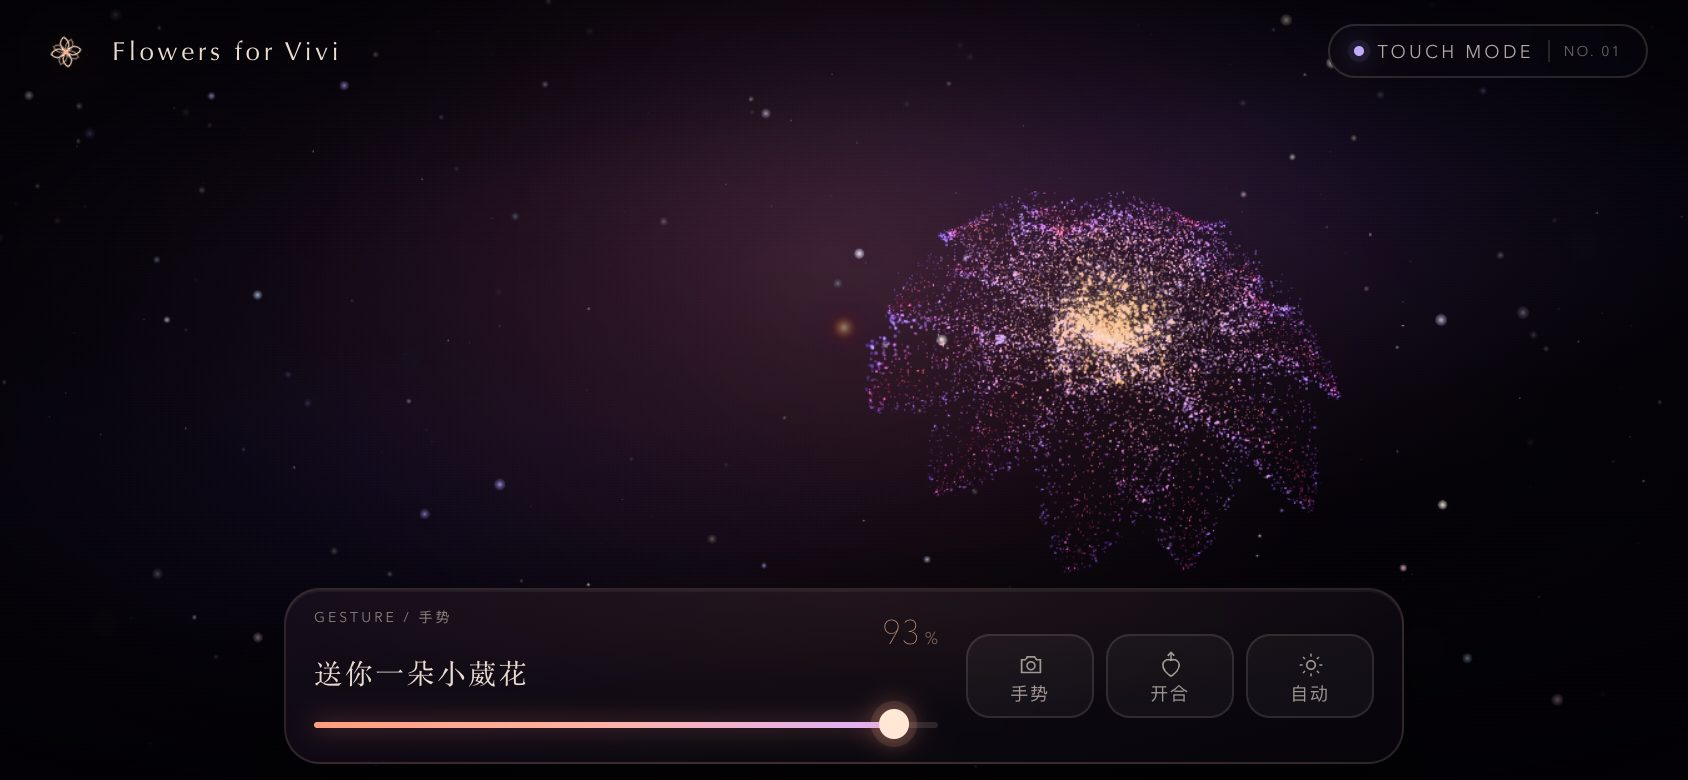
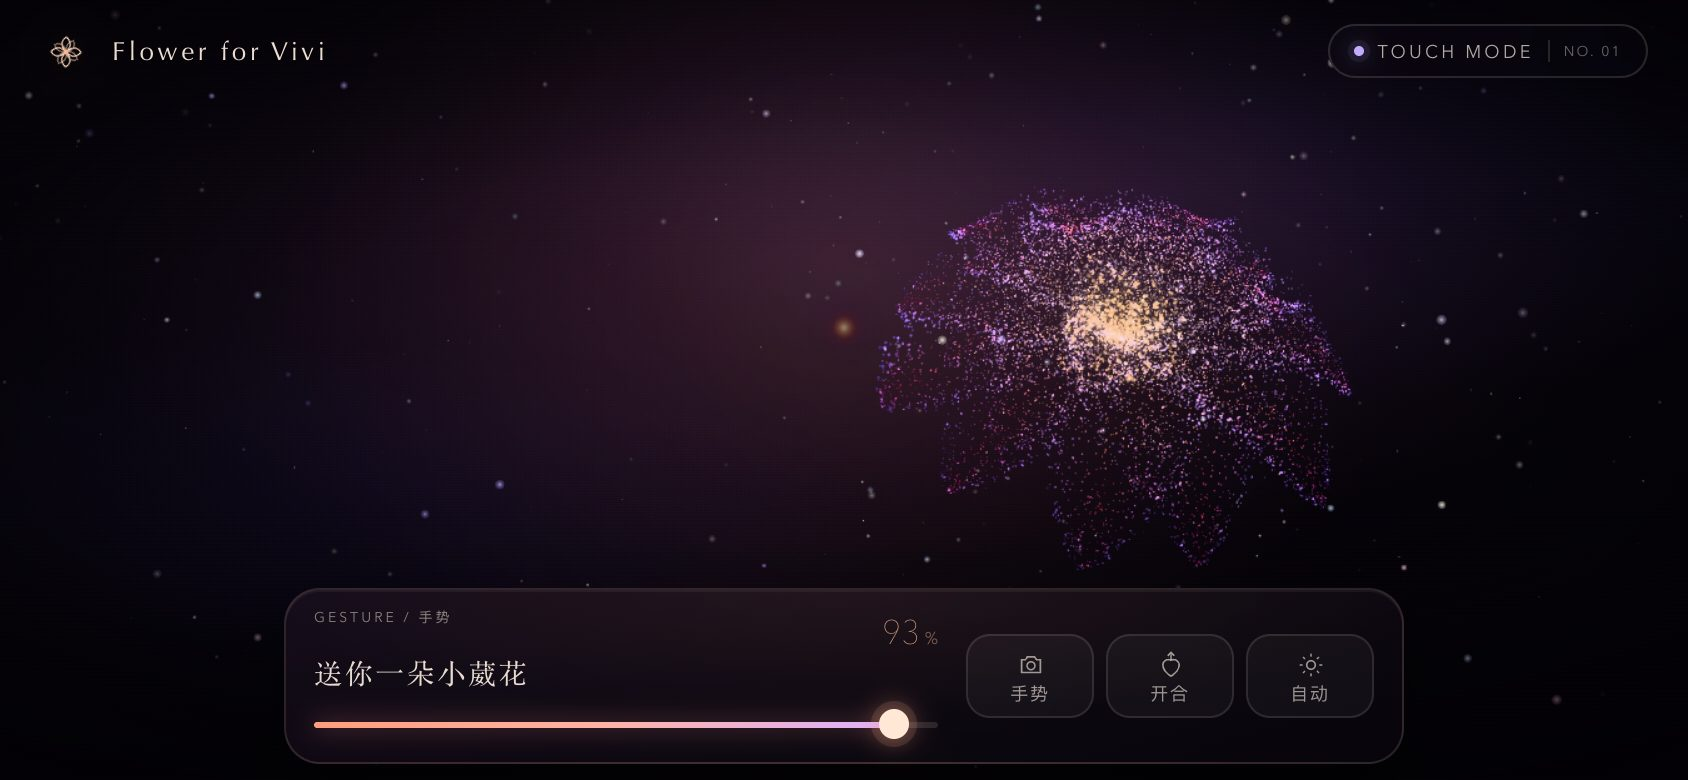
标题上移、统一字体与微光；品牌改为 Flower for Vivi；星火环绕花朵
- 首页标题上移，字距与「送你一朵小葳花」一致，叠加淡粉/淡紫微光
- 副文案改为「我只知道，花只要一直买，就永远不会枯。」
- 品牌、网页标题、manifest、文档统一为 Flower for Vivi
- 去掉大尺寸散景光斑，星星保留大小/明暗层次但光晕收小
- 新增 120 颗绕花缓转的暖色星火，随花朵位移与缩放
- 更新预览图

Changed region(s): [[0.4929, 0.2462, 0.8009, 0.7077], [0.1232, 0.0615, 0.1848, 0.0923], [0.0308, 0.0308, 0.0616, 0.0923]]

diff --git a/src/flower.js b/src/flower.js
@@ -470,51 +470,6 @@ const STAR_FRAGMENT = /* glsl */ `
   }
 `;
 
-const BOKEH_VERTEX = /* glsl */ `
-  uniform float uTime;
-  uniform float uPixelRatio;
-  attribute float aSize;
-  attribute float aPhase;
-  attribute float aBright;
-  attribute vec3 aColor;
-
-  varying vec3 vColor;
-  varying float vAlpha;
-
-  void main() {
-    vec3 pos = position;
-    pos.x += sin(uTime * 0.03 + aPhase * 31.0) * 0.6;
-    pos.y += cos(uTime * 0.025 + aPhase * 17.0) * 0.4;
-
-    vec4 mvPosition = modelViewMatrix * vec4(pos, 1.0);
-    gl_PointSize = clamp(
-      aSize * uPixelRatio * (0.96 + 0.04 * sin(uTime * 0.3 + aPhase * 9.0)),
-      2.0,
-      96.0
-    );
-    gl_Position = projectionMatrix * mvPosition;
-    vColor = aColor;
-    vAlpha = aBright * (0.7 + 0.3 * sin(uTime * 0.22 + aPhase * 7.0));
-  }
-`;
-
-const BOKEH_FRAGMENT = /* glsl */ `
-  varying vec3 vColor;
-  varying float vAlpha;
-
-  void main() {
-    vec2 centered = gl_PointCoord - vec2(0.5);
-    float d = length(centered) * 2.0;
-    if (d > 1.0) discard;
-
-    float disc = smoothstep(1.0, 0.55, d);
-    float rim = smoothstep(0.9, 1.0, d) * 0.22;
-    float alpha = vAlpha * (disc * 0.55 + rim);
-
-    gl_FragColor = vec4(vColor, alpha);
-  }
-`;
-
 function makeCanvasTexture(draw, size = 256) {
   const canvas = document.createElement("canvas");
   canvas.width = size;
@@ -596,7 +551,7 @@ function createStarfield() {
     colors[i * 3 + 2] = color.b;
 
     sizes[i] =
-      (0.6 + Math.pow(rng(), 2.4) * 5.6) * (1.12 - depth * 0.45);
+      (0.55 + Math.pow(rng(), 2.4) * 4.7) * (1.12 - depth * 0.45);
     brights[i] =
       (0.26 + Math.pow(rng(), 1.15) * 0.74) * (1.05 - depth * 0.28);
     twinkles[i] = 0.15 + rng() * 0.95;
@@ -713,7 +668,7 @@ export class BloomScene {
     this.scene.add(this.starfield);
 
     this._buildSkyStars();
-    this._buildBokeh();
+    this._buildOrbitStars();
 
     const geometry = createPetalGeometry(this.quality);
     this.petalMaterial = new THREE.ShaderMaterial({
@@ -821,14 +776,13 @@ export class BloomScene {
     if (this.skyStars) {
       this.skyStars.material.uniforms.uPixelRatio.value = this._dpr;
     }
-    if (this.bokeh) {
-      this.bokeh.material.uniforms.uPixelRatio.value = this._dpr;
+    if (this.orbitStars) {
+      this.orbitStars.material.uniforms.uPixelRatio.value = this._dpr;
     }
     this.pointerOrb.visible = false;
     this._pointerReady = false;
     this._focusDirty = true;
     this._repositionSkyStars();
-    this._repositionBokeh();
   }
 
   setFocus(x, y = 0.5) {
@@ -933,7 +887,7 @@ export class BloomScene {
       colors[i * 3] = color.r;
       colors[i * 3 + 1] = color.g;
       colors[i * 3 + 2] = color.b;
-      sizes[i] = (0.65 + Math.pow(rng(), 2.1) * 5.2) * (0.9 + (ndcY + 1) * 0.08);
+      sizes[i] = (0.6 + Math.pow(rng(), 2.1) * 4.3) * (0.9 + (ndcY + 1) * 0.08);
       brights[i] = 0.32 + Math.pow(rng(), 1.1) * 0.68;
       twinkles[i] = 0.15 + rng() * 0.9;
       phases[i] = rng();
@@ -982,46 +936,43 @@ export class BloomScene {
     positions.needsUpdate = true;
   }
 
-  _buildBokeh() {
-    const rng = mulberry32(0x7b0e11);
-    const count = 26;
+  _buildOrbitStars() {
+    const rng = mulberry32(0x2a61f0);
+    const count = 120;
     const positions = new Float32Array(count * 3);
     const colors = new Float32Array(count * 3);
     const sizes = new Float32Array(count);
     const phases = new Float32Array(count);
     const brights = new Float32Array(count);
+    const twinkles = new Float32Array(count);
     const palette = [
-      new THREE.Color("#b9a3ff"),
-      new THREE.Color("#8fb7ff"),
-      new THREE.Color("#ffd6e7"),
-      new THREE.Color("#fff1db"),
+      new THREE.Color("#fff4dc"),
+      new THREE.Color("#ffe1c6"),
+      new THREE.Color("#ffd6ea"),
+      new THREE.Color("#e6dcff"),
     ];
     const color = new THREE.Color();
-    const plane = new THREE.Plane(new THREE.Vector3(0, 0, 1), 20);
-    const hit = new THREE.Vector3();
-    const ndc = new THREE.Vector2();
-    this._bokehNdc = [];
-    this.camera.updateMatrixWorld(true);
 
+    // A loose, flattened torus of fireflies around the bloom. It is parented
+    // to the flower so it follows the focus, tilt and scale.
     for (let i = 0; i < count; i += 1) {
-      const ndcX = -0.92 + rng() * 1.84;
-      const ndcY = -0.92 + rng() * 1.84;
-      this._bokehNdc.push(new THREE.Vector2(ndcX, ndcY));
-      ndc.set(ndcX, ndcY);
-      this._raycaster.setFromCamera(ndc, this.camera);
-      if (!this._raycaster.ray.intersectPlane(plane, hit)) {
-        hit.set(0, 0, -20);
-      }
-      positions[i * 3] = hit.x;
-      positions[i * 3 + 1] = hit.y;
-      positions[i * 3 + 2] = hit.z;
+      const angle = rng() * Math.PI * 2;
+      const radius = 3.15 + Math.pow(rng(), 0.9) * 1.45;
+      const vertical = rng() * 2 - 1;
+      const ringRadius = Math.sqrt(Math.max(0, 1 - vertical * vertical)) * radius;
+      positions[i * 3] = Math.cos(angle) * ringRadius + (rng() - 0.5) * 0.4;
+      positions[i * 3 + 1] = vertical * radius + 0.1;
+      positions[i * 3 + 2] = Math.sin(angle) * ringRadius + (rng() - 0.5) * 0.4;
 
-      color.copy(palette[Math.floor(rng() * palette.length)]);
+      color
+        .copy(palette[Math.floor(rng() * palette.length)])
+        .multiplyScalar(0.9 + rng() * 0.5);
       colors[i * 3] = color.r;
       colors[i * 3 + 1] = color.g;
       colors[i * 3 + 2] = color.b;
-      sizes[i] = 6 + Math.pow(rng(), 1.6) * 26;
-      brights[i] = 0.06 + rng() * 0.1;
+      sizes[i] = 1.0 + Math.pow(rng(), 1.7) * 3.6;
+      brights[i] = 0.56 + Math.pow(rng(), 1.05) * 0.44;
+      twinkles[i] = 0.2 + rng() * 0.85;
       phases[i] = rng();
     }
 
@@ -1031,14 +982,15 @@ export class BloomScene {
     geometry.setAttribute("aSize", new THREE.BufferAttribute(sizes, 1));
     geometry.setAttribute("aPhase", new THREE.BufferAttribute(phases, 1));
     geometry.setAttribute("aBright", new THREE.BufferAttribute(brights, 1));
+    geometry.setAttribute("aTwinkle", new THREE.BufferAttribute(twinkles, 1));
 
     const material = new THREE.ShaderMaterial({
       uniforms: {
         uTime: { value: 0 },
         uPixelRatio: { value: 1 },
       },
-      vertexShader: BOKEH_VERTEX,
-      fragmentShader: BOKEH_FRAGMENT,
+      vertexShader: STAR_VERTEX,
+      fragmentShader: STAR_FRAGMENT,
       transparent: true,
       depthWrite: false,
       depthTest: true,
@@ -1047,24 +999,14 @@ export class BloomScene {
 
     const points = new THREE.Points(geometry, material);
     points.frustumCulled = false;
-    points.renderOrder = -4;
-    this.scene.add(points);
-    this.bokeh = points;
-  }
+    points.renderOrder = 3;
+    points.position.y = 0.55;
 
-  _repositionBokeh() {
-    if (!this.bokeh || !this._bokehNdc) return;
-    this.camera.updateMatrixWorld(true);
-    const positions = this.bokeh.geometry.attributes.position;
-    const plane = new THREE.Plane(new THREE.Vector3(0, 0, 1), 20);
-    const hit = new THREE.Vector3();
-    for (let i = 0; i < this._bokehNdc.length; i += 1) {
-      this._raycaster.setFromCamera(this._bokehNdc[i], this.camera);
-      if (this._raycaster.ray.intersectPlane(plane, hit)) {
-        positions.setXYZ(i, hit.x, hit.y, hit.z);
-      }
-    }
-    positions.needsUpdate = true;
+    const group = new THREE.Group();
+    group.add(points);
+    this.root.add(group);
+    this.orbitGroup = group;
+    this.orbitStars = points;
   }
 
   update(dt, input) {
@@ -1108,8 +1050,11 @@ export class BloomScene {
     if (this.skyStars) {
       this.skyStars.material.uniforms.uTime.value = this._time;
     }
-    if (this.bokeh) {
-      this.bokeh.material.uniforms.uTime.value = this._time;
+    if (this.orbitStars) {
+      this.orbitStars.material.uniforms.uTime.value = this._time;
+      this.orbitGroup.rotation.y += safeDt * 0.1;
+      this.orbitGroup.rotation.x = Math.sin(this._time * 0.09) * 0.06;
+      this.orbitGroup.rotation.z = Math.cos(this._time * 0.06) * 0.04;
     }
     this.bloomPass.strength = 0.2 + bloom * 0.06 + this.burst * 0.28;
     this.bloomPass.radius = 0.28 + bloom * 0.06;
@@ -1234,9 +1179,10 @@ export class BloomScene {
       this.skyStars.geometry.dispose();
       this.skyStars.material.dispose();
     }
-    if (this.bokeh) {
-      this.bokeh.geometry.dispose();
-      this.bokeh.material.dispose();
+    if (this.orbitStars) {
+      this.root.remove(this.orbitGroup);
+      this.orbitStars.geometry.dispose();
+      this.orbitStars.material.dispose();
     }
     this.composer.dispose();
     this.renderer.dispose();

diff --git a/index.html b/index.html
@@ -11,12 +11,12 @@
     <meta name="color-scheme" content="dark" />
     <meta
       name="description"
-      content="Flowers for Vivi —— 一束会开合的光。拖动开合，或开启摄像头，握拳为苞、张掌绽放。"
+      content="Flower for Vivi —— 一束会开合的光。拖动开合，或开启摄像头，握拳为苞、张掌绽放。"
     />
     <meta name="apple-mobile-web-app-capable" content="yes" />
     <meta name="mobile-web-app-capable" content="yes" />
     <meta name="apple-mobile-web-app-status-bar-style" content="black-translucent" />
-    <meta name="apple-mobile-web-app-title" content="Flowers for Vivi" />
+    <meta name="apple-mobile-web-app-title" content="Flower for Vivi" />
     <meta name="format-detection" content="telephone=no" />
     <link rel="manifest" href="./manifest.webmanifest" />
     <link rel="apple-touch-icon" href="./assets/icon-180.png" />
@@ -33,7 +33,7 @@
         }
       }
     </script>
-    <title>Flowers for Vivi · Bloom at Your Fingertips</title>
+    <title>Flower for Vivi · Bloom at Your Fingertips</title>
   </head>
   <body>
     <div id="app" data-mode="idle" data-gesture="idle">
@@ -64,7 +64,7 @@
             <circle cx="24" cy="24" r="2.1" fill="#ffb58d" />
           </svg>
           <div class="brand__type">
-            <span class="brand__name">Flowers for Vivi</span>
+            <span class="brand__name">Flower for Vivi</span>
             <span class="brand__sub">BLOOM AT YOUR FINGERTIPS</span>
           </div>
         </div>
@@ -85,7 +85,7 @@
           <em>永远是多远？</em>
         </h1>
         <p class="intro__lede">
-          花只要一直买，就永远不会枯。
+          我只知道，花只要一直买，就永远不会枯。
         </p>
 
         <ul class="intro__steps" aria-label="体验方式">
@@ -195,7 +195,7 @@
     </div>
 
     <noscript>
-      <div class="noscript">请启用 JavaScript 以体验「Flowers for Vivi」。</div>
+      <div class="noscript">请启用 JavaScript 以体验「Flower for Vivi」。</div>
     </noscript>
 
     <script type="module" src="./src/main.js"></script>

diff --git a/src/styles.css b/src/styles.css
@@ -1,5 +1,5 @@
 /* ------------------------------------------------------------------ *
- * Flowers for Vivi · Bloom at Your Fingertips
+ * Flower for Vivi · Bloom at Your Fingertips
  * Editorial nocturne / warm bioluminescence — mobile-first edition
  * ------------------------------------------------------------------ */
 
@@ -418,7 +418,7 @@ body.has-camera #camera {
   font-size: clamp(2.5rem, 11vw, 3.1rem);
   font-weight: 400;
   line-height: 1.16;
-  letter-spacing: 0.01em;
+  letter-spacing: 0.1em;
   background: linear-gradient(
     115deg,
     #fff8ff 0%,
@@ -436,8 +436,9 @@ body.has-camera #camera {
   color: transparent;
   filter:
     drop-shadow(0 3px 18px rgba(4, 2, 8, 0.72))
-    drop-shadow(0 0 34px rgba(255, 142, 172, 0.18))
-    drop-shadow(0 0 60px rgba(168, 160, 255, 0.16));
+    drop-shadow(0 0 12px rgba(255, 240, 246, 0.16))
+    drop-shadow(0 0 26px rgba(255, 178, 208, 0.3))
+    drop-shadow(0 0 62px rgba(170, 150, 255, 0.26));
   animation: dreamy-title 18s ease-in-out infinite alternate;
 }
 
@@ -459,7 +460,7 @@ body.has-camera #camera {
 }
 
 .intro__lede {
-  margin: 18px 0 40px;
+  margin: 18px 0 52px;
   font-family: var(--serif);
   font-size: 15px;
   line-height: 1.85;
@@ -1113,6 +1114,13 @@ body.is-searching .focus-hint {
 
 /* ------------------------- narrow phones (320px) ------------------------ */
 
+@media (max-width: 350px) {
+  .intro__lede {
+    font-size: 12px;
+    letter-spacing: 0.04em;
+  }
+}
+
 @media (max-width: 360px) {
   .topbar {
     gap: 8px;
@@ -1163,7 +1171,7 @@ body.is-searching .focus-hint {
   }
 
   .intro__lede {
-    margin: 13px 0 30px;
+    margin: 13px 0 42px;
     font-size: 13.5px;
     line-height: 1.8;
   }
@@ -1206,7 +1214,7 @@ body.is-searching .focus-hint {
   }
 
   .intro__lede {
-    margin: 12px 0 24px;
+    margin: 12px 0 34px;
     font-size: 13px;
     line-height: 1.75;
   }

diff --git a/修改指南.md b/修改指南.md
@@ -1,4 +1,4 @@
-# Flowers for Vivi · 修改指南（手机版）
+# Flower for Vivi · 修改指南（手机版）
 
 源码没有压缩，也没有构建步骤。改完文件刷新浏览器即可看到效果。
 

diff --git a/README.md b/README.md
@@ -1,4 +1,4 @@
-# Flowers for Vivi · Bloom at Your Fingertips
+# Flower for Vivi · Bloom at Your Fingertips
 
 一个**为手机重做**的可交互手势粒子花朵：MediaPipe Hands + Three.js + GLSL。
 
